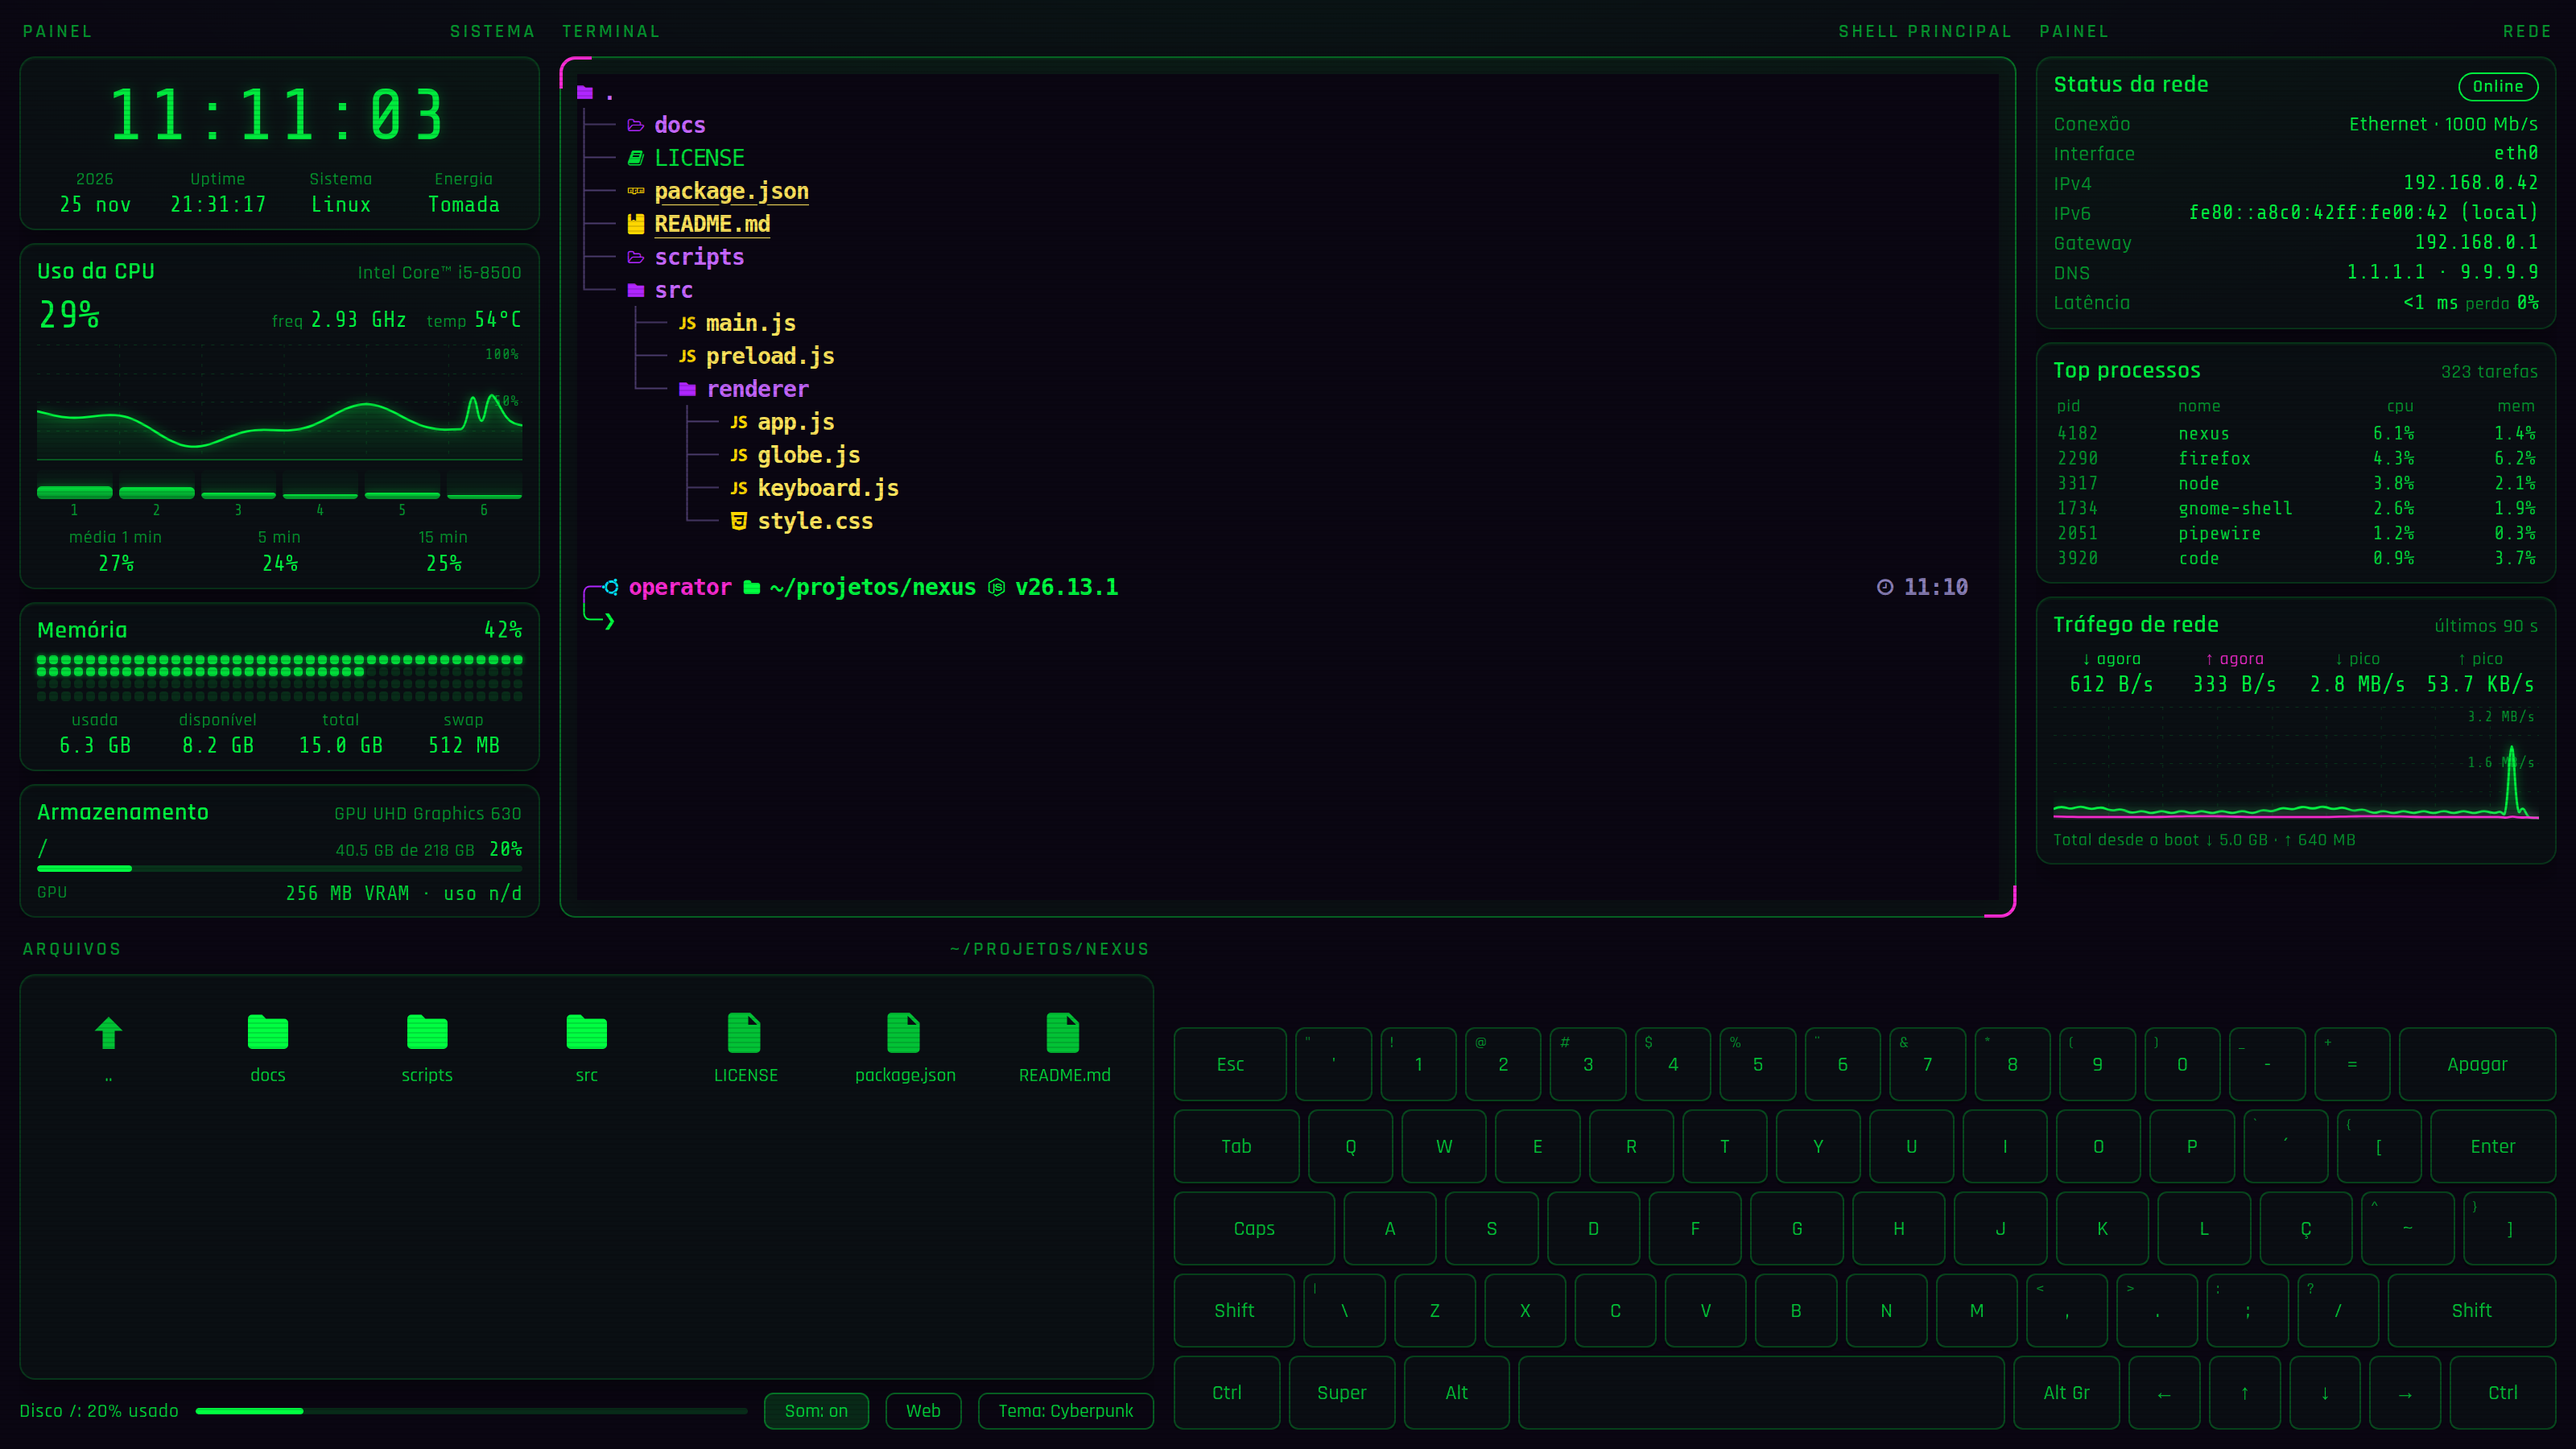
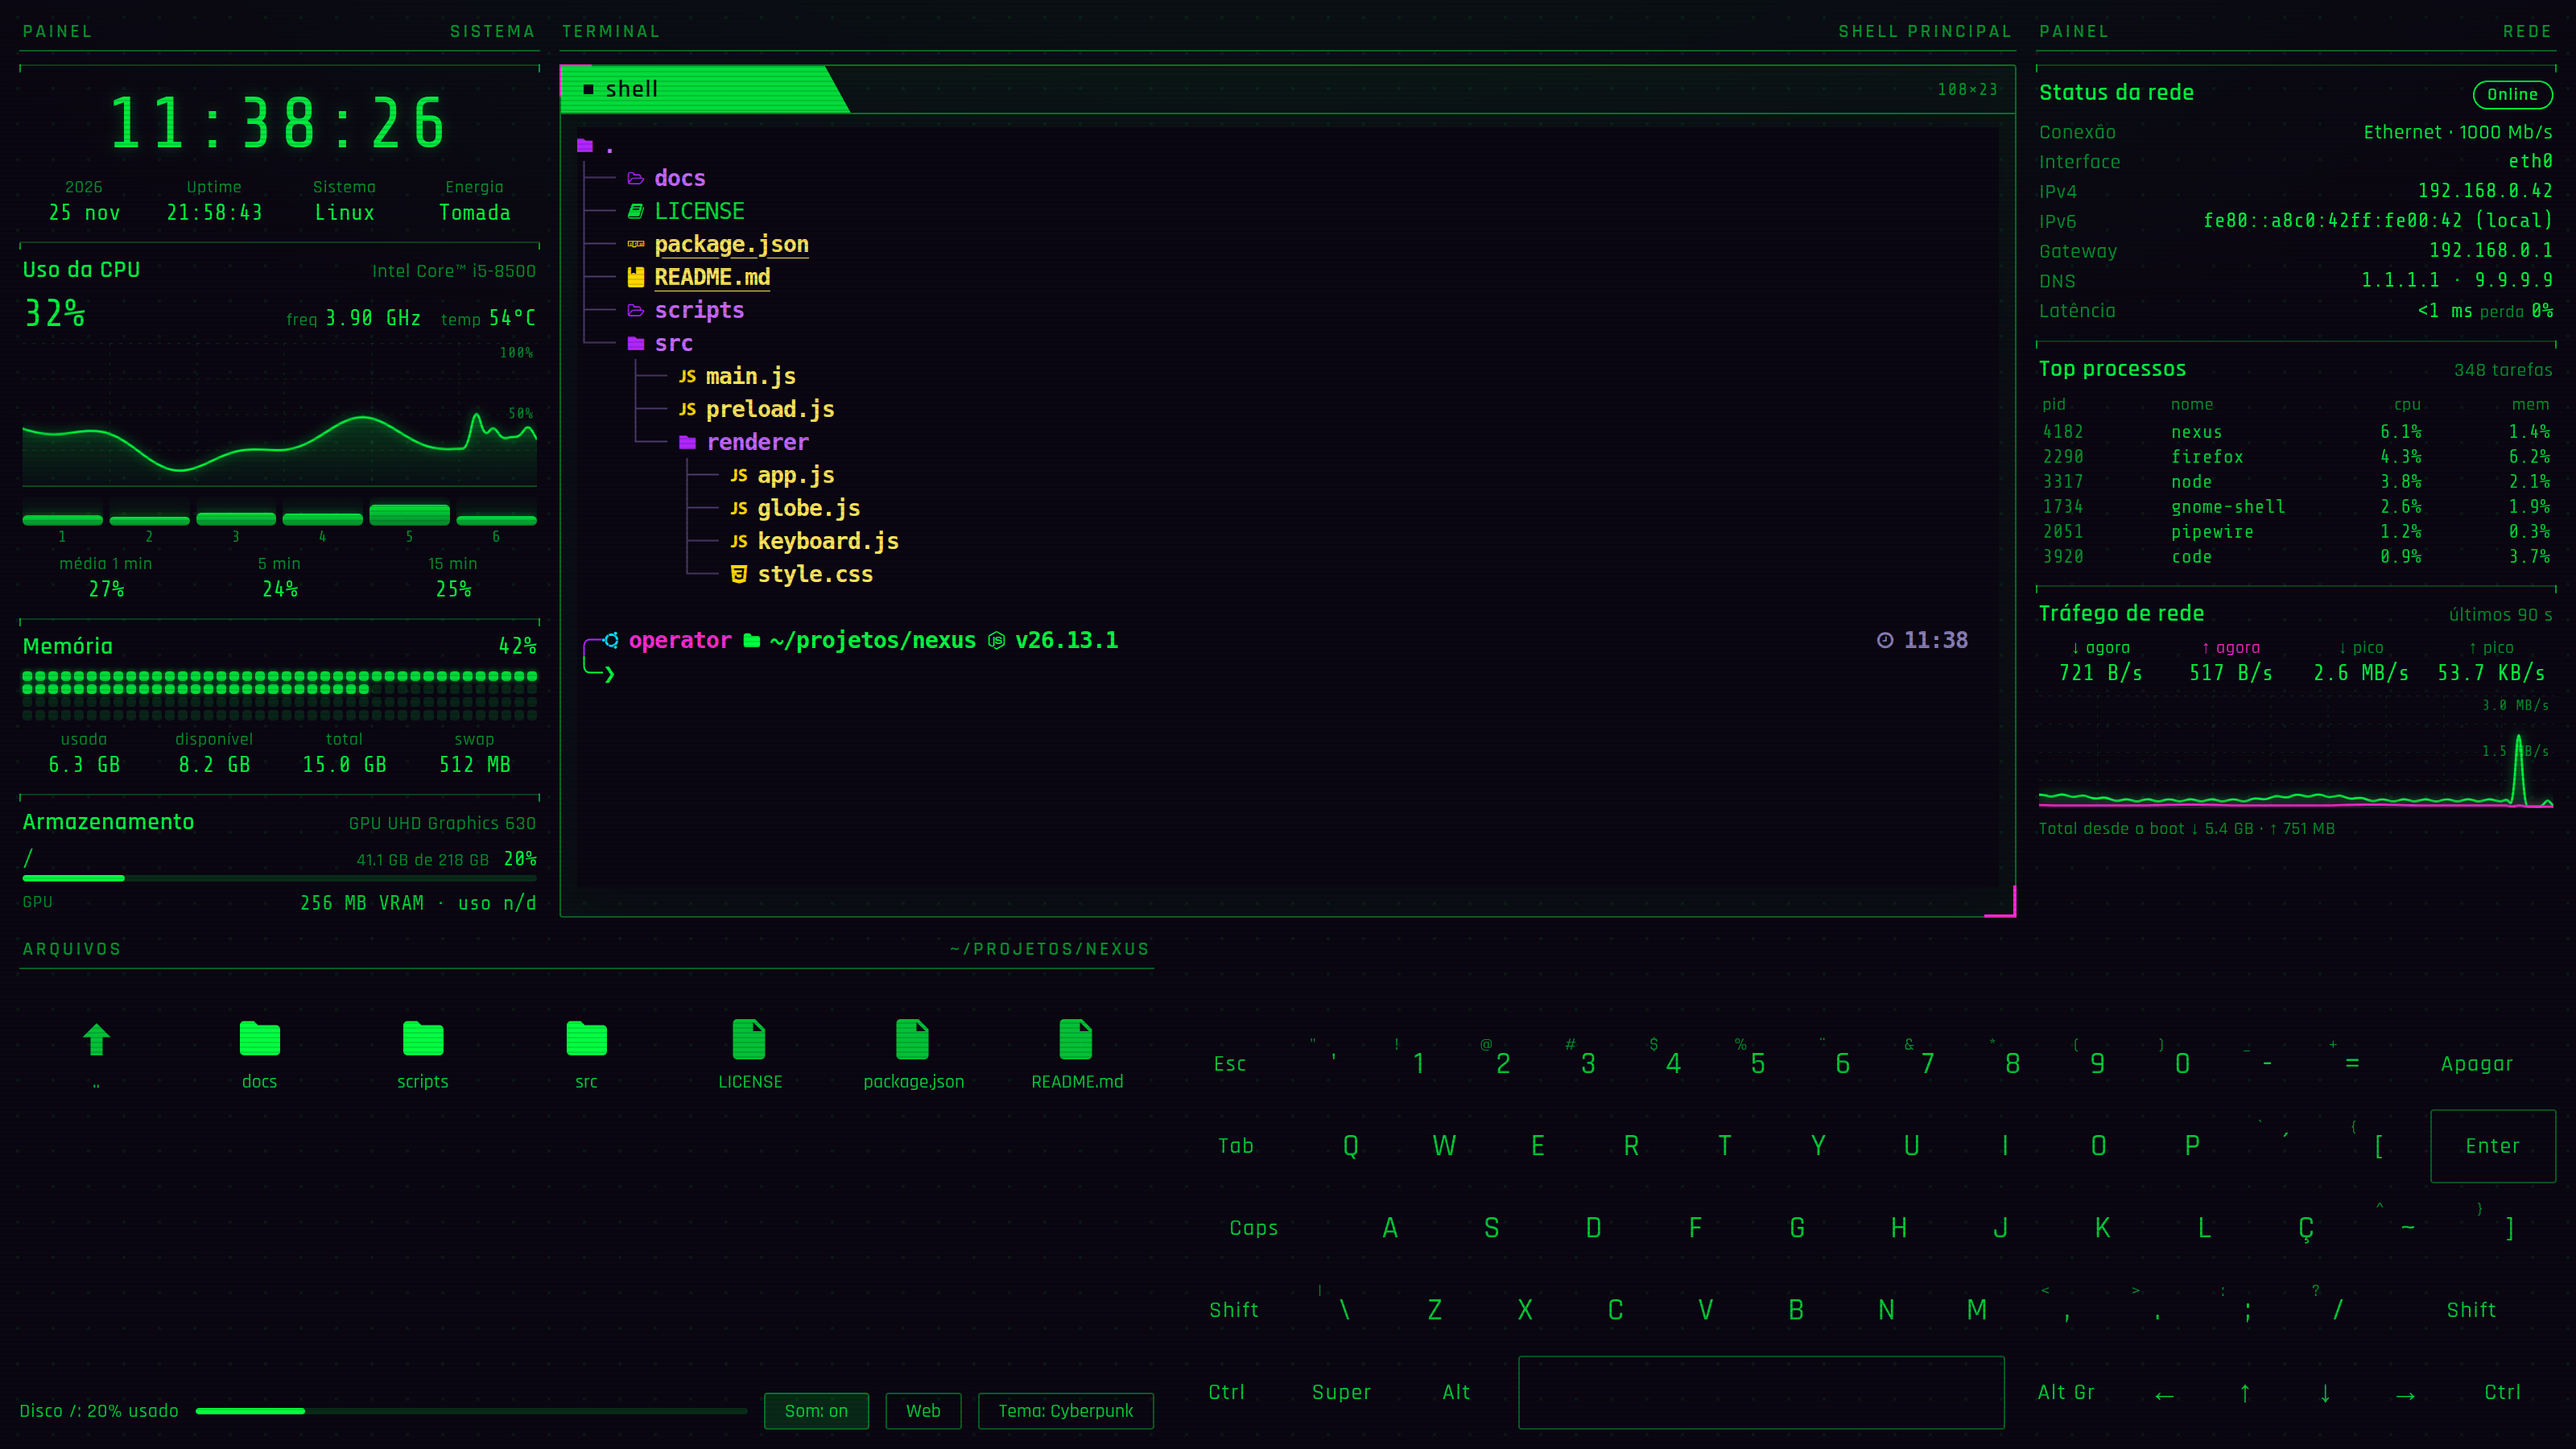
feat: acabamento visual estilo HUD; zoom sempre em 100%
- Painéis sem cartão: linha fina no topo com marcas nas pontas, fundo com
  grade de pontos, cabeçalhos de coluna como régua
- Terminal com faixa de abas: aba angulada com o título do shell e o
  tamanho em colunas×linhas
- Teclado sem caixas, letras maiores; só Enter e espaço com contorno
- Cantos retos na janela web e nos botões
- Correção: o Chromium salvava no perfil o zoom 2x das capturas (antes de
  elas terem perfil próprio), deixando a interface enorme e o terminal com
  poucas colunas. Fora das capturas o zoom volta a 100% e Ctrl+roda não
  muda mais o zoom

diff --git a/src/renderer/style.css b/src/renderer/style.css
@@ -46,7 +46,10 @@ html, body {
   margin: 0;
   height: 100%;
   overflow: hidden;
-  background: radial-gradient(ellipse 80% 60% at 50% -10%, rgba(var(--rgb), 0.07), transparent 70%), var(--bg);
+  background:
+    radial-gradient(rgba(var(--rgb), 0.07) 1px, transparent 1.2px) 0 0 / 22px 22px,
+    radial-gradient(ellipse 80% 60% at 50% -10%, rgba(var(--rgb), 0.06), transparent 70%),
+    var(--bg);
   color: rgba(var(--rgb), var(--text));
   font-family: var(--font-ui);
   font-size: 14px;
@@ -110,7 +113,8 @@ body::after {
   font-size: 12px;
   font-weight: 600;
   letter-spacing: 0.14em;
-  padding: 0 2px;
+  padding: 0 2px 4px;
+  border-bottom: 1px solid rgba(var(--rgb), 0.35);
   text-transform: uppercase;
   color: rgba(var(--rgb), var(--text-muted));
   overflow: hidden;
@@ -119,19 +123,30 @@ body::after {
 }
 .panel-head span:last-child { overflow: hidden; text-overflow: ellipsis; }
 
+/* Painel no estilo HUD: sem caixa; uma linha fina no topo com marcas nas pontas */
 .block {
-  background: var(--card-bg);
-  border: 1px solid var(--card-border);
-  border-radius: var(--radius-lg);
-  box-shadow: var(--card-shadow);
-  padding: 7px 10px;
+  position: relative;
+  border-top: 1px solid rgba(var(--rgb), 0.22);
+  padding: 7px 2px 2px;
   display: flex;
   flex-direction: column;
   gap: 6px;
   flex-shrink: 0;
-  transition: border-color 0.3s, background-color 0.3s;
+  transition: border-color 0.3s;
 }
-.block:hover { border-color: var(--card-border-hover); }
+.block::before, .block::after {
+  content: "";
+  position: absolute;
+  top: -1px;
+  width: 1px;
+  height: 5px;
+  background: rgba(var(--rgb), 0.6);
+  transition: background-color 0.3s;
+}
+.block::before { left: 0; }
+.block::after { right: 0; }
+.block:hover { border-top-color: rgba(var(--rgb), 0.45); }
+.block:hover::before, .block:hover::after { background: rgb(var(--accent-rgb)); }
 .block > * { flex-shrink: 0; } /* conteúdo não encolhe até sumir; quem cede espaço é o bloco .grow */
 .block.grow { flex: 1 1 0; min-height: 0; overflow: hidden; }
 .block.grow > #globe { flex-shrink: 1; }
@@ -283,12 +298,49 @@ canvas.graph.tall { height: 70px; }
   flex: 1;
   min-height: 0;
   border: 1px solid rgba(var(--rgb), 0.4);
-  border-radius: var(--radius-lg);
-  box-shadow: var(--card-shadow), inset 0 0 30px rgba(var(--rgb), 0.05);
-  padding: 10px;
-  background: rgba(var(--rgb), 0.02);
+  border-radius: 2px;
+  box-shadow: inset 0 0 40px rgba(var(--rgb), 0.04);
+  padding: 0 10px 8px;
+  background: rgba(var(--rgb), 0.015);
   position: relative;
+  display: flex;
+  flex-direction: column;
 }
+/* faixa de abas: aba ativa angulada com o título do shell; tamanho do terminal à direita */
+.term-tabs {
+  display: flex;
+  align-items: stretch;
+  justify-content: space-between;
+  height: 30px;
+  margin: 0 -10px 8px;
+  border-bottom: 1px solid rgba(var(--rgb), 0.4);
+  flex-shrink: 0;
+}
+.term-tab {
+  display: flex;
+  align-items: center;
+  gap: 8px;
+  padding: 0 34px 0 14px;
+  max-width: 60%;
+  min-width: 180px;
+  background: rgba(var(--rgb), 0.85);
+  color: var(--bg);
+  font-weight: 600;
+  font-size: 15px;
+  letter-spacing: 0.06em;
+  clip-path: polygon(0 0, calc(100% - 16px) 0, 100% 100%, 0 100%);
+  white-space: nowrap;
+  overflow: hidden;
+  text-overflow: ellipsis;
+}
+.term-tab::before { content: ""; width: 6px; height: 6px; background: var(--bg); flex-shrink: 0; }
+.term-size {
+  align-self: center;
+  padding-right: 10px;
+  font-family: var(--font-num);
+  font-size: 11px;
+}
+#terminal { flex: 1; min-height: 0; }
 .term-frame::before, .term-frame::after {
   content: "";
   position: absolute;
@@ -296,9 +348,9 @@ canvas.graph.tall { height: 70px; }
   border: 2px solid rgb(var(--accent-rgb));
   pointer-events: none;
 }
-.term-frame::before { top: -1px; left: -1px; border-right: 0; border-bottom: 0; border-top-left-radius: var(--radius-lg); }
-.term-frame::after { bottom: -1px; right: -1px; border-left: 0; border-top: 0; border-bottom-right-radius: var(--radius-lg); }
-#terminal { width: 100%; height: 100%; }
+.term-frame::before { top: -1px; left: -1px; border-right: 0; border-bottom: 0; }
+.term-frame::after { bottom: -1px; right: -1px; border-left: 0; border-top: 0; }
+#terminal { width: 100%; }
 .xterm { user-select: text; }
 .xterm .xterm-viewport { background: transparent !important; scrollbar-width: thin; scrollbar-color: rgba(var(--rgb), 0.4) transparent; }
 
@@ -312,11 +364,7 @@ canvas.graph.tall { height: 70px; }
   grid-auto-rows: 74px;
   gap: 6px;
   align-content: start;
-  padding: var(--space-2);
-  background: var(--card-bg);
-  border: 1px solid var(--card-border);
-  border-radius: var(--radius-lg);
-  box-shadow: var(--card-shadow);
+  padding: var(--space-2) 0;
   scrollbar-width: thin;
   scrollbar-color: rgba(var(--rgb), 0.4) transparent;
 }
@@ -350,7 +398,7 @@ canvas.graph.tall { height: 70px; }
   color: inherit;
   font: inherit;
   border: 1px solid rgba(var(--rgb), 0.35);
-  border-radius: var(--radius);
+  border-radius: 2px;
   padding: 3px 12px;
   cursor: pointer;
   transition: background-color 0.2s, border-color 0.2s, color 0.2s;
@@ -378,7 +426,7 @@ button:focus-visible, input:focus-visible { outline: 2px solid rgba(var(--accent
   flex-direction: column;
   background: var(--bg);
   border: 1px solid rgba(var(--rgb), 0.5);
-  border-radius: var(--radius-lg);
+  border-radius: 2px;
   box-shadow: 0 0 24px rgba(var(--rgb), 0.14), 0 14px 40px rgba(0, 0, 0, 0.6);
 }
 .webwin[hidden] { display: none; }
@@ -389,7 +437,6 @@ button:focus-visible, input:focus-visible { outline: 2px solid rgba(var(--accent
   width: 14px; height: 14px;
   border: 2px solid rgb(var(--accent-rgb));
   border-right: 0; border-bottom: 0;
-  border-top-left-radius: var(--radius-lg);
   pointer-events: none;
   z-index: 1;
 }
@@ -465,20 +512,23 @@ button:focus-visible, input:focus-visible { outline: 2px solid rgba(var(--accent
 .key {
   flex: 1 1 0;
   min-width: 0;
-  border: 1px solid rgba(var(--rgb), 0.25);
-  background: rgba(var(--rgb), 0.03);
-  box-shadow: 0 2px 0 rgba(0, 0, 0, 0.35);
+  border: 1px solid transparent;
+  background: none;
   font: inherit;
-  font-size: 13px;
+  font-size: 19px;
+  font-weight: 500;
   position: relative;
   cursor: pointer;
   padding: 0;
-  border-radius: var(--radius);
-  color: rgba(var(--rgb), 0.72);
-  transition: background 0.25s, box-shadow 0.25s, color 0.25s;
+  border-radius: 2px;
+  color: rgba(var(--rgb), 0.78);
+  transition: background 0.25s, box-shadow 0.25s, color 0.25s, border-color 0.25s;
 }
-.key small { position: absolute; top: 2px; left: 5px; font-size: 10px; }
-.key:hover { border-color: rgba(var(--rgb), 0.7); background: rgba(var(--rgb), 0.08); color: rgba(var(--rgb), var(--text-strong)); }
+/* teclas de função em texto menor; Enter e espaço com contorno, como referência */
+.key.w15, .key.w175, .key.w2, .key.w25 { font-size: 14px; letter-spacing: 0.06em; }
+.key[data-code="Enter"], .key[data-code="Space"] { border-color: rgba(var(--rgb), 0.35); }
+.key small { position: absolute; top: 3px; left: 8px; font-size: 11px; }
+.key:hover { background: rgba(var(--rgb), 0.07); color: rgba(var(--rgb), var(--text-strong)); }
 .key.down {
   background: rgb(var(--rgb));
   color: var(--bg);
@@ -537,7 +587,8 @@ button:focus-visible, input:focus-visible { outline: 2px solid rgba(var(--accent
 
 /* Alerta: CPU ≥ 90%, temperatura ≥ 85 °C ou memória ≥ 90% deixam o painel vermelho pulsando */
 .alert { --rgb: var(--alert-rgb); color: rgb(var(--rgb)); animation: alert-pulse 1.1s ease-in-out infinite; }
-.block.alert { border-color: rgba(var(--alert-rgb), 0.6); background: rgba(var(--alert-rgb), 0.05); }
+.block.alert { border-top-color: rgba(var(--alert-rgb), 0.8); }
+.block.alert::before, .block.alert::after { background: rgb(var(--alert-rgb)); }
 @keyframes alert-pulse { 50% { text-shadow: 0 0 10px rgba(var(--alert-rgb), 0.9); opacity: 0.75; } }
 
 @media (prefers-reduced-motion: reduce) {

diff --git a/src/main.js b/src/main.js
@@ -80,7 +80,17 @@ function createWindow() {
   // página (re)carregada: reenvia a lista de arquivos
   win.webContents.on('did-finish-load', () => {
     lastCwd = null;
+    // Zoom sempre em 100% fora das capturas: o Chromium salva o zoom por página no perfil, e um zoom
+    // antigo (ou um Ctrl+roda acidental) deixava a interface enorme e o terminal com poucas colunas.
+    if (!snapshotMode) {
+      win.webContents.setZoomFactor(1);
+      win.webContents.setVisualZoomLevelLimits(1, 1).catch(() => {});
+    }
   });
+  if (!snapshotMode) {
+    // Ctrl+roda do mouse não muda o zoom
+    win.webContents.on('zoom-changed', () => win.webContents.setZoomFactor(1));
+  }
   win.once('ready-to-show', () => {
     if (snapshotMode) {
       // layout de 1600x900 renderizado em 2x (nítido em telas retina e no zoom do GitHub)

diff --git a/src/renderer/app.js b/src/renderer/app.js
@@ -117,7 +117,13 @@
     window.nexus.onData((d) => term.write(d));
     term.onData((d) => window.nexus.write(d));
     term.onResize(({ cols, rows }) => window.nexus.resize(cols, rows));
-    term.onTitleChange((t) => { $('term-title').textContent = t || 'SHELL PRINCIPAL'; });
+    term.onTitleChange((t) => {
+      $('term-title').textContent = t || 'SHELL PRINCIPAL';
+      $('term-tab').textContent = t || 'shell';
+    });
+    const showSize = () => { $('term-size').textContent = `${term.cols}×${term.rows}`; };
+    term.onResize(showSize);
+    showSize();
     window.nexus.spawn(term.cols, term.rows);
     new ResizeObserver(() => fit.fit()).observe($('terminal'));
     term.focus();

diff --git a/src/renderer/index.html b/src/renderer/index.html
@@ -69,7 +69,13 @@
     <!-- Terminal -->
     <section class="col col-center">
       <header class="panel-head"><span>TERMINAL</span><span id="term-title">SHELL PRINCIPAL</span></header>
-      <div class="term-frame"><div id="terminal"></div></div>
+      <div class="term-frame">
+        <div class="term-tabs" aria-hidden="true">
+          <span class="term-tab" id="term-tab">shell</span>
+          <span class="term-size dim" id="term-size">—</span>
+        </div>
+        <div id="terminal"></div>
+      </div>
     </section>
 
     <!-- Coluna direita -->

diff --git a/src/renderer/keyboard.js b/src/renderer/keyboard.js
@@ -37,6 +37,7 @@
           const btn = document.createElement('button');
           btn.type = 'button';
           btn.className = `key ${width}`.trim();
+          btn.dataset.code = code;
           btn.tabIndex = -1;
           btn.setAttribute('aria-label', label || (code === 'Space' ? 'espaço' : code));
           if (shifted) {
